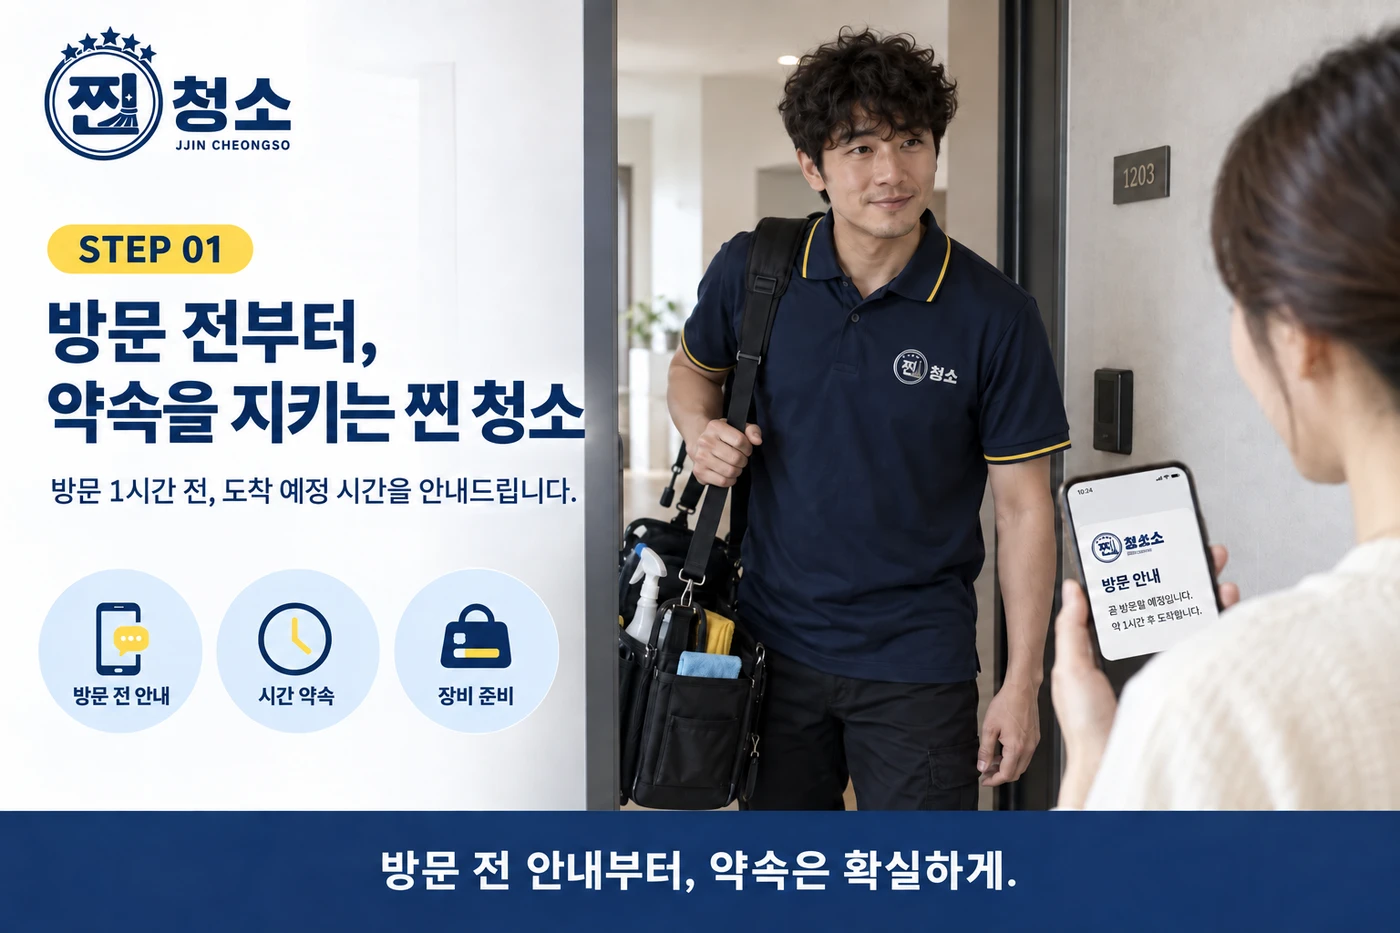
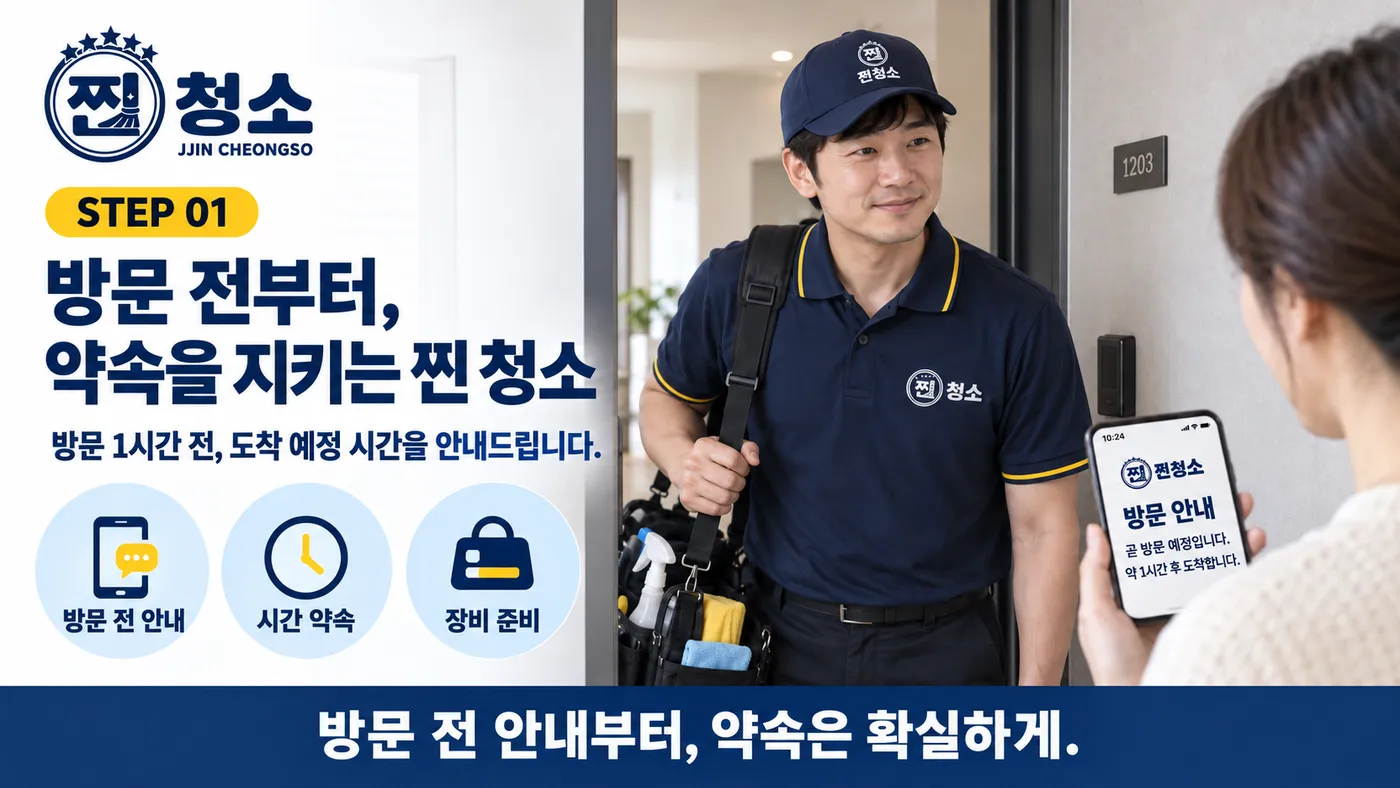
5단계 진행 과정 이미지 교체 (고화질 웹 최적화)
고객이 새로 제공한 1~5단계 사진으로 교체. 1672x941 원본을
1400px 폭 WebP(quality 80)로 변환해 화질은 유지하면서 파일당
평균 약 86KB로 가볍게 최적화. 실제 이미지 비율(약 16:9)에 맞춰
Image 컴포넌트 height 값도 조정

diff --git a/src/components/home/ProcessSteps.tsx b/src/components/home/ProcessSteps.tsx
@@ -19,7 +19,7 @@ export default function ProcessSteps() {
               src={step.img}
               alt={step.label}
               width={1400}
-              height={933}
+              height={788}
               className="h-auto w-full"
               sizes="(min-width: 896px) 850px, 100vw"
             />
